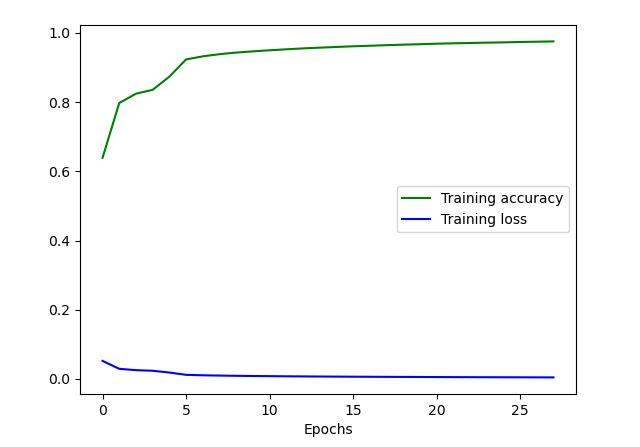
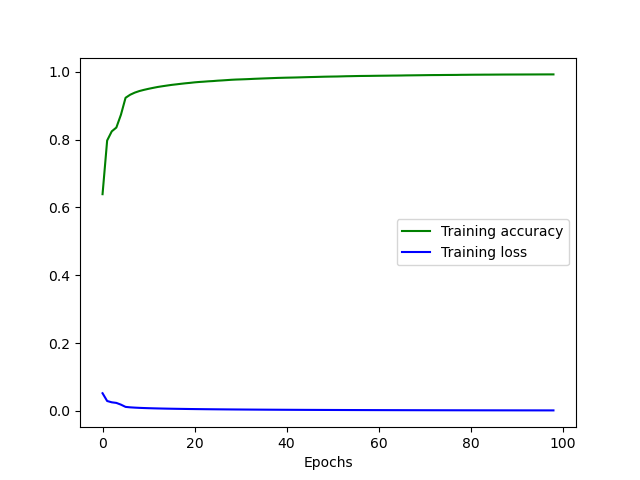
update readme

diff --git a/README.md b/README.md
@@ -7,6 +7,7 @@ I build a simple feedforward neural network (FNN) from scratch without relying o
 It employs vanilla stochastic gradient descent and the MSELoss.
 The project does not use Pytorch or Tensorflow/Keras and is only coded using numpy.
 
+
 # Key Takeaways:
 ### 1. A Deeper Understanding of Neural Networks
 Implementing backpropagation, MSE loss, fully connected layers, and stochastic gradient descent from scratch.
@@ -18,3 +19,5 @@ Gain familiarity with pure numpy.
 ### The Training Accuracy and Loss
 
 ![The Training Accuracy and Loss](./docs/training.png?raw=true "The Training Accuracy and Loss")
+
+#### The final test accuracy for a 2 layer FNN is 96.39% for a training of 100 epochs.
